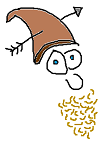
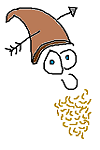
add images

diff --git a/src/main/java/oberflaeche/CharakterErstellenView.java b/src/main/java/oberflaeche/CharakterErstellenView.java
@@ -24,6 +24,19 @@ public class CharakterErstellenView {
 
     private GridPane grid;
 
+    private Image geistImage;
+    private Image menschImage;
+    private Image zwergImage;
+    private Image elfImage;
+    private Image hobbitImage;
+    private ImageView rasseView;
+
+    private Image bannerImage;
+    private Image diebImage;
+    private Image kaempferImage;
+    private Image magierImage;
+    private ImageView klasseView;
+
     private RadioButton diebButton;
     private RadioButton kaempferButton;
     private RadioButton magierButton;
@@ -86,11 +99,23 @@ public class CharakterErstellenView {
         emptyLabel.setPadding(new Insets(0, 0, 0, 140));
         grid.add(emptyLabel, 2, 0);
 
-        Image image = new Image("file:src/main/resources/image/zwerg.png");
-        ImageView view = new ImageView();
-        view.setImage(image);
+        geistImage = new Image("file:src/main/resources/image/geist.png");
+        menschImage = new Image("file:src/main/resources/image/mensch.png");
+        zwergImage = new Image("file:src/main/resources/image/zwerg.png");
+        elfImage = new Image("file:src/main/resources/image/elf.png");
+        hobbitImage = new Image("file:src/main/resources/image/hobbit.png");
+        rasseView = new ImageView();
+        rasseView.setImage(geistImage);
 
-        grid.add(view, 3, 0, 1, 5);
+        bannerImage = new Image("file:src/main/resources/image/banner.png");
+        diebImage = new Image("file:src/main/resources/image/bannerDieb.png");
+        kaempferImage = new Image("file:src/main/resources/image/bannerKaempfer.png");
+        magierImage = new Image("file:src/main/resources/image/bannerMagier.png");
+        klasseView = new ImageView();
+        klasseView.setImage(bannerImage);
+
+        grid.add(rasseView, 3, 0, 1, 5);
+        grid.add(klasseView, 4, 0, 1, 5);
 
         ToggleGroup klasseGroup = new ToggleGroup();
 
@@ -210,19 +235,23 @@ public class CharakterErstellenView {
     private void addRassenauswahlEventHandler() {
         menschButton.setOnMouseClicked(event -> {
             controller.setRasse(Rasse.MENSCH);
-            updateAlle();
+            rasseView.setImage(menschImage);
+            updateAlleEigenschaften();
         });
         zwergButton.setOnMouseClicked(event -> {
             controller.setRasse(Rasse.ZWERG);
-            updateAlle();
+            rasseView.setImage(zwergImage);
+            updateAlleEigenschaften();
         });
         elfButton.setOnMouseClicked(event -> {
             controller.setRasse(Rasse.ELF);
-            updateAlle();
+            rasseView.setImage(elfImage);
+            updateAlleEigenschaften();
         });
         hobbitButton.setOnMouseClicked(event -> {
             controller.setRasse(Rasse.HOBBIT);
-            updateAlle();
+            rasseView.setImage(hobbitImage);
+            updateAlleEigenschaften();
         });
     }
 
@@ -318,7 +347,7 @@ public class CharakterErstellenView {
         gesWert.setText(Integer.toString(geschicklichkeit));
     }
 
-    private void updateAlle() {
+    private void updateAlleEigenschaften() {
         updateIntelligenz();
         updateStaerke();
         updateKonstitution();
